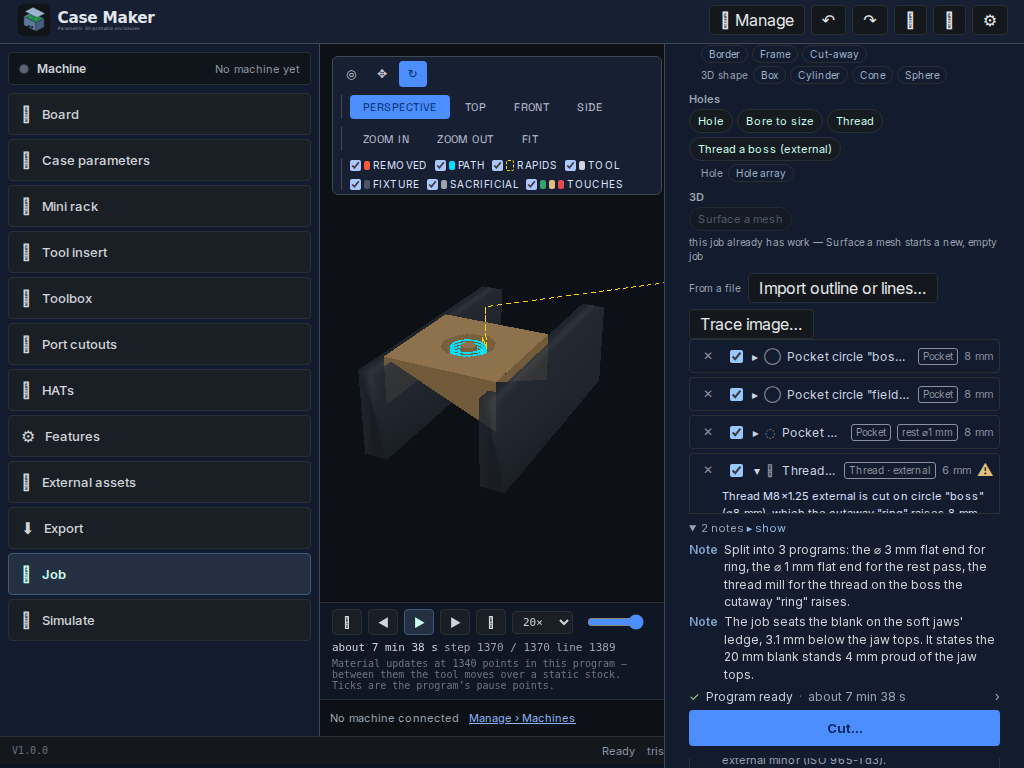
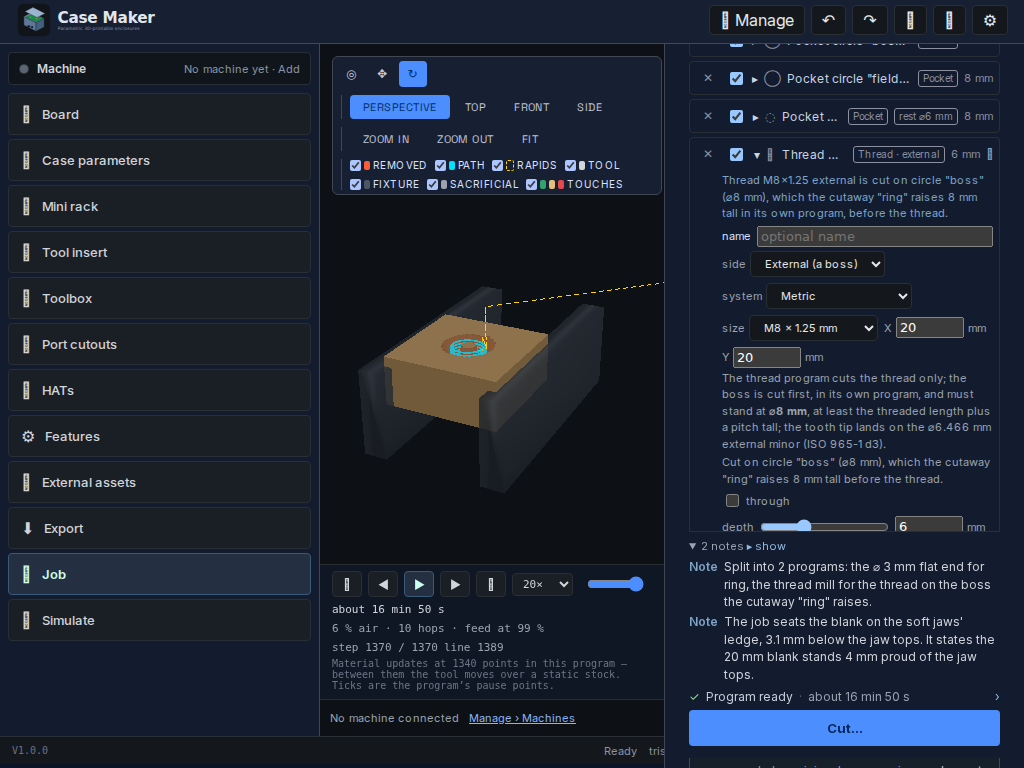
fix(panel): the pressed measured plan is recognised as applied, and the thread job's measured offer is pressed end to end (#1035)
Item 1 — measuredApplied compared a GOAL's rough clause for every job:
job.targetObject?.roughToolKey === (measuredNow.goalRoughKey ?? null) reads undefined === null for
a job with no target object, so it was false forever: after 'Use the recommendation' the offer
stayed, the cutter line never said 'chosen by simulation' (no fidelity), and the coin walk failed
at engrave-use-measured toHaveCount(0). The clause is now vacuous without a target object; the
goal rule itself is unchanged. Red-first in engraveMeasuredPickPanel.spec.tsx (button stayed after
the press); 11 panel tests green; engraveMeasuredPick e2e green (11.6 s).

Item 2 — the boss-thread walk was written for the retired auto-apply and never pressed the offer.
The measured answer for the job DOES carry the thread mill (probed live: [M8, FLAT] seeded, the
boss+ring+thread job settles 'ready' in ~31 s), but the split only appears after the press, and
the offer lives inside the Cutter group. bossThread848 now opens the group, presses
engrave-use-measured (the #1010 ruling's write), then asserts the split and Generate; green in
44.4 s, flat → thread mill. A panel pin asserts the same at the unit level: the offer for a
thread job, the press writing both cutters and the thread's items, and the split stated.

Screenshots under docs/bench/img/2026-11-01-boss-thread/ regenerated by the walk on this flow.

diff --git a/casemaker-app/tests/unit/engraveMeasuredPickPanel.spec.tsx b/casemaker-app/tests/unit/engraveMeasuredPickPanel.spec.tsx
@@ -6,7 +6,7 @@
 // background run, cancellation and caching are `engravePreviewStore766.spec.ts`).
 
 import { describe, it, expect, beforeEach, afterEach } from 'vitest';
-import { act, cleanup, render, screen } from '@testing-library/react';
+import { act, cleanup, fireEvent, render, screen } from '@testing-library/react';
 import { EngravePanel } from '@/components/panels/EngravePanel';
 import { useEngraveJobStore } from '@/store/engraveJobStore';
 import { useEngraveRunStore } from '@/store/engraveRunStore';
@@ -433,6 +433,109 @@ describe('#766 D the panel’s provisional → measured answers', () => {
     expect(useEngraveJobStore.getState().job.toolKey).toBe('user:ball');
     expect(screen.queryByTestId(/^engrave-finding-\d+-cutter-substituted$/)).toBeNull();
     expect(screen.queryByTestId('cutter-substituted-choose')).toBeNull();
+  });
+
+  // #1035 — THE OFFER RETIRES WHEN ITS OWN PLAN IS THE JOB. A job with no goal still compares the
+  // measured plan against the document: the rough-key clause is a GOAL's rule, and an absent
+  // `targetObject` reads `undefined`, which never equals the `null` the clause compares it to — so
+  // `measuredApplied` stayed false forever, the button never retired after the press and the
+  // fidelity line never showed. RED before the fix: the button is still there after the click.
+  it('#1035 — the pressed measured pick retires the offer and the cutter line states the fidelity', () => {
+    act(() => {
+      setRegistry([{ key: 'flat-3.175', tool: flatEndMill(3.175, { name: '3.175 mm flat end' }), provenance: 'test' }]);
+    });
+    const job = pocketJob();
+    job.toolKey = '';
+    act(() => {
+      useEngraveJobStore.setState({ job });
+    });
+    const measured = measuredFlat();
+    useEngravePreviewStore.setState({
+      preview: previewWith(),
+      status: 'ready',
+      measured,
+      measuredJob: measureFingerprint(job),
+      measuredStatus: 'ready',
+    });
+    render(<EngravePanel />);
+    expect(screen.getByTestId('engrave-use-measured')).toBeTruthy();
+
+    fireEvent.click(screen.getByTestId('engrave-use-measured'));
+
+    expect(useEngraveJobStore.getState().job.toolKey).toBe('flat-3.175');
+    expect(screen.queryByTestId('engrave-use-measured')).toBeNull();
+    // The applied plan is recognised as the answer: its fidelity is on the cutter line.
+    expect(document.body.textContent).toContain('chosen by simulation');
+    expect(document.body.textContent).toContain('97 % fidelity');
+  });
+
+  // #1035 — A THREAD JOB'S MEASURED OFFER CARRIES THE THREAD MILL, and the press is the write.
+  // The retired auto-apply used to assign the mill behind the operator; #1010's ruling makes the
+  // measured answer the offer and the press the write, so the split is stated before Generate.
+  function bossThreadJob(): ReturnType<typeof defaultEngraveJob> {
+    const job = defaultEngraveJob();
+    job.labels = [];
+    job.stock = { ...job.stock, length: 40, width: 40, thickness: 20 };
+    job.shapes = [
+      { kind: 'circle', id: 'boss', name: 'boss', position: { x: 20, y: 20 }, rotation: 0, depth: 8, enabled: true, diameter: 8, construction: true },
+      { kind: 'circle', id: 'field', name: 'field', position: { x: 20, y: 20 }, rotation: 0, depth: 8, enabled: true, diameter: 30, construction: true },
+    ] as NonNullable<ReturnType<typeof defaultEngraveJob>['shapes']>;
+    job.combined = [
+      { kind: 'cutaway', id: 'ring', name: 'ring', position: { x: 20, y: 20 }, rotation: 0, depth: 8, enabled: true, outer: 'field', islands: ['boss'] },
+    ] as NonNullable<ReturnType<typeof defaultEngraveJob>['combined']>;
+    job.threads = [
+      { kind: 'thread', id: 'thr', position: { x: 20, y: 20 }, enabled: true, size: 'M8', standard: 'metric', classFit: '6h', side: 'external', depth: 6, through: false },
+    ] as NonNullable<ReturnType<typeof defaultEngraveJob>['threads']>;
+    job.toolKey = 'user:848-flat3';
+    job.tool = flatEndMill(3, { name: '3 mm flat end mill', fluteLength: 20 });
+    job.sources = { tool: 'user' };
+    return job;
+  }
+
+  it('#1035 — a thread job’s measured offer carries the thread mill and the press states the split', () => {
+    act(() => {
+      setRegistry([
+        { key: 'user:848-flat3', tool: flatEndMill(3, { name: '3 mm flat end mill', fluteLength: 20 }), provenance: 'test' },
+        {
+          key: 'user:848-m8',
+          tool: flatEndMill(6, { name: 'Thread mill M8x1.25 (d6mm)', typeText: 'Thread Mill', shape: 'thread', tipDiameter: 6, diameter: 6, fluteLength: 20 }),
+          provenance: 'test',
+        },
+      ]);
+    });
+    const job = bossThreadJob();
+    act(() => {
+      useEngraveJobStore.setState({ job });
+    });
+    const base = measuredFlat();
+    const measured: EngravePickSummary = {
+      ...base,
+      cutters: [
+        { key: 'user:848-flat3', items: ['ring'], source: 'owned' },
+        { key: 'user:848-m8', items: ['thr'], source: 'owned' },
+      ],
+      words: { ...base.words, plan: '3 mm flat + M8 thread mill', verdict: 'Chosen by simulation: the split posts.' },
+    };
+    // No preview: the panel then computes the job's findings itself (`preview?.findings ??
+    // validateJob(...)`), which is where the split sentence comes from.
+    useEngravePreviewStore.setState({
+      preview: null,
+      status: 'ready',
+      measured,
+      measuredJob: measureFingerprint(job),
+      measuredStatus: 'ready',
+    });
+    render(<EngravePanel />);
+    expect(screen.getByTestId('engrave-use-measured')).toBeTruthy();
+
+    fireEvent.click(screen.getByTestId('engrave-use-measured'));
+
+    const setups = useEngraveJobStore.getState().job.setups ?? [];
+    expect(setups[0]?.tools).toEqual(['user:848-flat3', 'user:848-m8']);
+    expect(setups[0]?.toolItems?.['user:848-m8']).toEqual(['thr']);
+    // The split is stated, so Generate's program count is explained before it happens.
+    expect(document.body.textContent).toContain('Split into 2 programs');
+    expect(screen.queryByTestId('engrave-use-measured')).toBeNull();
   });
 
   it('leaves the rule answer standing, labelled, when the search fails', () => {

diff --git a/casemaker-app/tests/e2e/bossThread848.spec.ts b/casemaker-app/tests/e2e/bossThread848.spec.ts
@@ -16,7 +16,7 @@ import { defaultEngraveJob } from '@/engine/cnc/engrave/defaults';
 import { flatEndMill } from '@/engine/cnc/tool';
 import type { ToolLibraryEntry } from '@/engine/cnc/toolLibrary';
 import type { EngraveCombinedShape, EngraveJob } from '@/types/engraveJob';
-import { test, expect } from './fixtures/caseMaker';
+import { test, expect, openCutterGroup } from './fixtures/caseMaker';
 
 test.setTimeout(600_000);
 
@@ -105,6 +105,17 @@ test('an ⌀8 mm boss the job raises, threaded M8×1.25: the boss, then the thre
   await page.getByTestId('engrave-thread-use-size-0').click();
   await expect(page.getByTestId('engrave-thread-size-0')).toHaveValue('M8');
   await expect(page.getByTestId('engrave-thread-use-size-0')).toHaveCount(0);
+
+  // #1035 — THE THREAD MILL IS OFFERED, AND THE PRESS IS THE WRITE (#1010's ruling). The
+  // measured answer carries the thread mill beside the flat; pressing it assigns the thread to
+  // the mill and the split is stated. The retired auto-apply used to make this write behind the
+  // operator; without the press Generate stays disabled on `thread-wrong-tool`.
+  // The offer lives inside the Cutter group: open it, as the measured-pick walk does.
+  await openCutterGroup(page);
+  await expect(page.getByTestId('engrave-pick-measured')).toBeVisible({ timeout: 240_000 });
+  await expect(page.getByTestId('engrave-use-measured')).toBeVisible();
+  await page.getByTestId('engrave-use-measured').click();
+  await expect(page.getByTestId('engrave-use-measured')).toHaveCount(0);
 
   // The plan splits the job, boss first, and one line says so.
   const split = page.locator('[data-code="setup-programs-split"]');

diff --git a/casemaker-app/src/components/panels/EngravePanel.tsx b/casemaker-app/src/components/panels/EngravePanel.tsx
@@ -2124,8 +2124,11 @@ export function EngravePanel(): JSX.Element {
       job.targetObject.chamfer.toolKey === measuredNow.cutters[1].key) &&
     // #869/#999 — the goal's rough is the plan's own decision, and the three states are distinct:
     // a plan with no rough (ball alone) matches a goal stating `null`, never an ABSENT key (which
-    // now means the engine chooses), and a named key matches itself.
-    job.targetObject?.roughToolKey === (measuredNow.goalRoughKey ?? null) &&
+    // now means the engine chooses), and a named key matches itself. #1035 — the clause is a
+    // GOAL's rule: a job with no target object has no rough to compare, and `undefined === null`
+    // kept `measuredApplied` false forever, so the offer never retired after its own press and the
+    // fidelity line never showed.
+    (job.targetObject === undefined || job.targetObject.roughToolKey === (measuredNow.goalRoughKey ?? null)) &&
     (measuredSetup?.tools ?? []).length === measuredNow.cutters.length &&
     (measuredSetup?.tools ?? []).every((k, i) => k === measuredNow.cutters[i]?.key) &&
     measuredNow.cutters.every((c) => {
